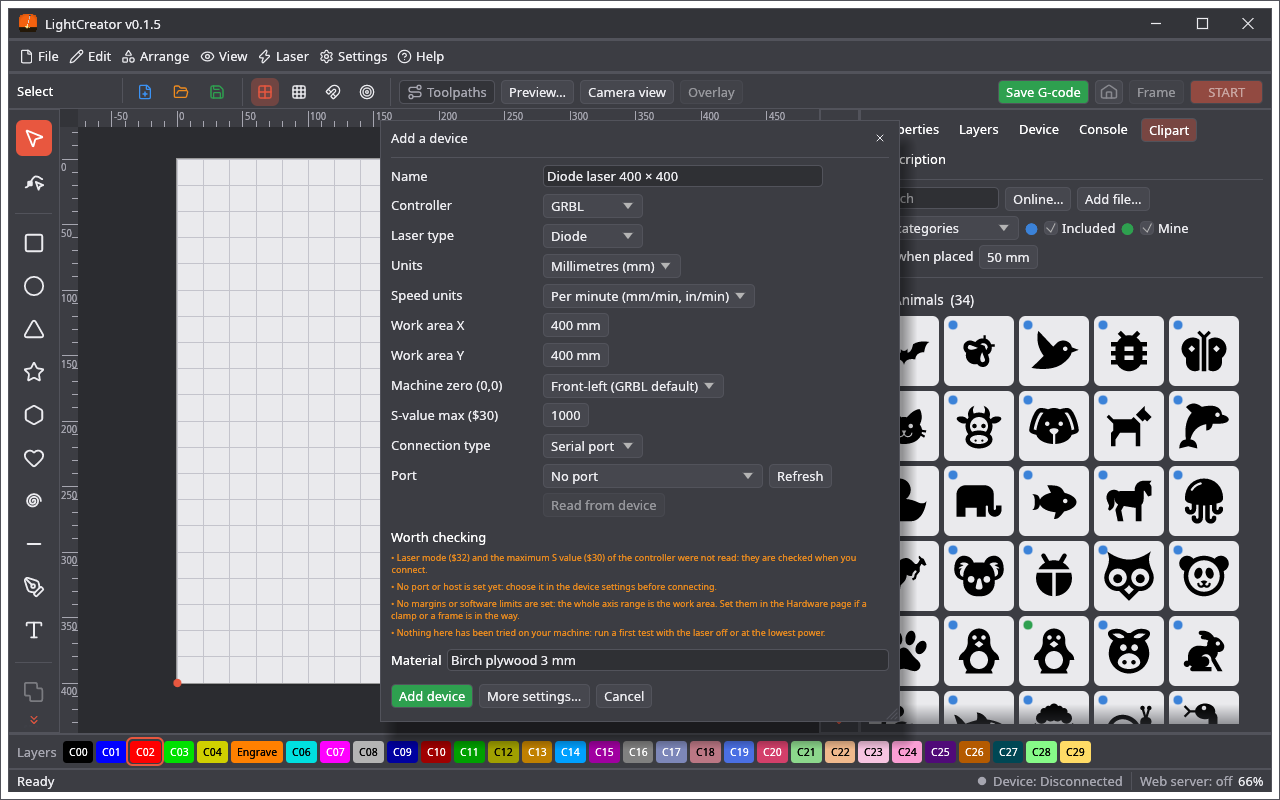
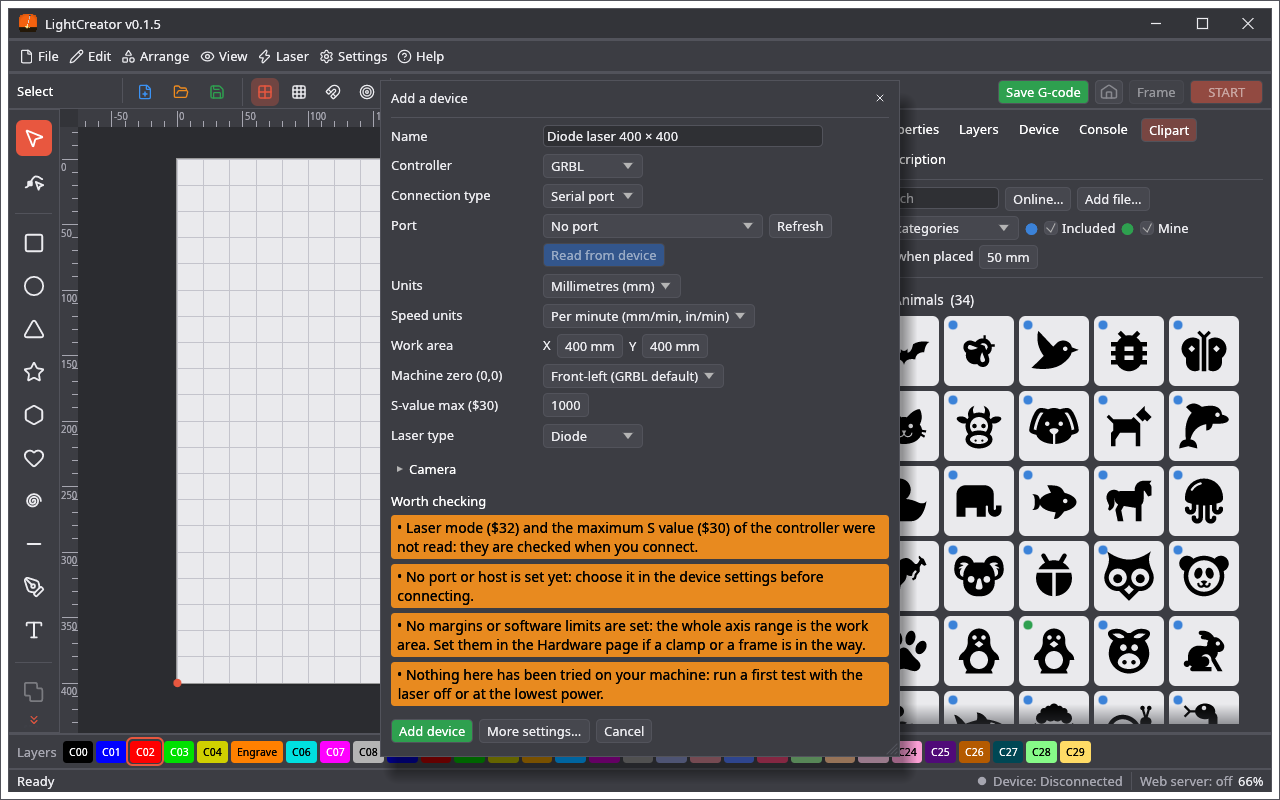
First-run Add a device window: new field order, blue read button, camera, readable warnings, Cancel quits
The connection (type, port, Read from device) now comes right after name and controller, then units, speed units, work area on one line (X, Y), machine zero, S max and laser type. The window has an optional Camera section. The material field is gone: the device gets the default material. The warnings are black on orange and larger. Cancel on the first run closes the program instead of opening the device window.

diff --git a/crates/lightcreator/src/add_device_ui.rs b/crates/lightcreator/src/add_device_ui.rs
@@ -1,4 +1,4 @@
-//! Adding a device: one window with the basic settings (and a first material at the bottom). It opens by itself when
+//! Adding a device: one window with the basic settings (and an optional camera). It opens by itself when
 //! there is no device yet. Nothing is predefined.
 use crate::app::App;
 use crate::device_ui::CfgEdit;
@@ -12,6 +12,51 @@ fn blank_device() -> Device {
     d.name = String::new();
     d.speed_unit = lc_core::SpeedUnit::PerMinute;
     d
+}
+
+/// The optional camera of a new device: nothing until "Add a camera"; then its name, where the picture comes from and
+/// the switch-off. Rotation, picture and lens settings are in the device window.
+fn camera_section(ui: &mut egui::Ui, d: &mut Device) {
+    egui::CollapsingHeader::new(RichText::new(tr("Camera")).strong()).id_salt("add_cam").default_open(!d.cameras.is_empty()).show(ui, |ui| {
+        let mut remove = false;
+        if let Some(c) = d.cameras.first_mut() {
+            ui.horizontal(|ui| {
+                ui.add(egui::TextEdit::singleline(&mut c.name).hint_text(tr("Camera name")).desired_width(180.0));
+                if crate::window_ui::delete_icon(ui, &tr("Delete this camera")).clicked() {
+                    remove = true;
+                }
+            });
+            ui.horizontal(|ui| {
+                let local = matches!(c.kind, lc_core::CameraKind::Local(_));
+                let mut want_local = local;
+                ui.radio_value(&mut want_local, false, tr("Address"));
+                ui.radio_value(&mut want_local, true, tr("Camera of this computer"));
+                if want_local != local {
+                    c.kind = if want_local { lc_core::CameraKind::Local(0) } else { lc_core::CameraKind::Url(String::new()) };
+                }
+            });
+            match &mut c.kind {
+                lc_core::CameraKind::Url(u) => {
+                    ui.add(egui::TextEdit::singleline(u).hint_text("http://raspberrypi.local:8080/stream.mjpg").desired_width(300.0));
+                    if !lc_core::camimg::valid_url(u) && !u.trim().is_empty() {
+                        ui.label(RichText::new(tr("Not an http or https address.")).color(Color32::from_rgb(0xc0, 0x30, 0x30)));
+                    }
+                }
+                lc_core::CameraKind::Local(i) => {
+                    ui.horizontal(|ui| {
+                        ui.label(tr("Camera number"));
+                        ui.add(egui::DragValue::new(i).range(0..=15));
+                    });
+                }
+            }
+        } else if ui.button(tr("Add a camera")).clicked() {
+            crate::device_ui::add_camera(d);
+        }
+        if remove {
+            d.cameras.clear();
+            d.active_camera = 0;
+        }
+    });
 }
 
 impl App {
@@ -37,18 +82,11 @@ impl App {
         w
     }
 
-    /// The device is made: it gets the starter materials of its laser type and the material typed at the bottom, and
+    /// The device is made: it gets the starter materials of its laser type (the default material is selected), and
     /// joins the list of devices.
     pub fn finish_add_device(&mut self, mut dev: Device) {
         dev.name = dev.name.trim().to_string();
         dev.add_starter_materials();
-        let typed = self.add_dev_material.trim().to_string();
-        if !typed.is_empty() {
-            let names: Vec<String> = dev.materials.iter().map(|m| m.name.clone()).collect();
-            dev.materials.push(lc_core::materials::Material::new(&lc_core::materials::free_name(&names, &typed)));
-            dev.active_material = dev.materials.len() - 1;
-        }
-        self.add_dev_material.clear();
         self.profiles.push(dev);
         self.start_sel = self.profiles.len() - 1;
         self.add_dev = None;
@@ -74,9 +112,9 @@ impl App {
         let was_read = self.add_dev_read;
         let mut open = true;
         let mut close = false;
-        crate::window_ui::popup(ctx, "first_setup", &tr("Add a device"), [520.0, 560.0], &mut open, |ui| {
+        crate::window_ui::popup(ctx, "first_setup", &tr("Add a device"), [520.0, 640.0], &mut open, |ui| {
             let d = &mut cfg.draft;
-            egui::ScrollArea::vertical().max_height((ui.ctx().content_rect().height() - 190.0).clamp(200.0, 520.0)).auto_shrink([false, true]).show(ui, |ui| {
+            egui::ScrollArea::vertical().max_height((ui.ctx().content_rect().height() - 190.0).clamp(200.0, 600.0)).auto_shrink([false, true]).show(ui, |ui| {
                 egui::Grid::new("add_dev").num_columns(2).min_col_width(140.0).spacing([12.0, 6.0]).show(ui, |ui| {
                     ui.label(tr("Name"));
                     ui.add(egui::TextEdit::singleline(&mut d.name).hint_text(tr("e.g. My diode laser")));
@@ -87,44 +125,6 @@ impl App {
                             ui.selectable_value(&mut d.controller, c, c.label());
                         }
                     });
-                    ui.end_row();
-                    ui.label(tr("Laser type"));
-                    egui::ComboBox::from_id_salt("add_laser").selected_text(tr(d.heads[0].laser.label())).show_ui(ui, |ui| {
-                        for k in lc_core::LaserKind::ALL {
-                            ui.selectable_value(&mut d.heads[0].laser, k, tr(k.label()));
-                        }
-                    });
-                    ui.end_row();
-                    ui.label(tr("Units"));
-                    egui::ComboBox::from_id_salt("add_units").selected_text(tr(d.units.label())).show_ui(ui, |ui| {
-                        for u in Units::ALL {
-                            ui.selectable_value(&mut d.units, u, tr(u.label()));
-                        }
-                    });
-                    ui.end_row();
-                    ui.label(tr("Speed units"));
-                    egui::ComboBox::from_id_salt("add_speed_units").selected_text(tr(d.speed_unit.label())).show_ui(ui, |ui| {
-                        for k in lc_core::SpeedUnit::ALL {
-                            ui.selectable_value(&mut d.speed_unit, k, tr(k.label()));
-                        }
-                    });
-                    ui.end_row();
-                    let u = d.units;
-                    ui.label(tr("Work area X"));
-                    crate::units_ui::drag_len(ui, u, &mut d.area.bed_w, 1.0, Some((10.0, 5000.0)));
-                    ui.end_row();
-                    ui.label(tr("Work area Y"));
-                    crate::units_ui::drag_len(ui, u, &mut d.area.bed_h, 1.0, Some((10.0, 5000.0)));
-                    ui.end_row();
-                    ui.label(tr("Machine zero (0,0)"));
-                    egui::ComboBox::from_id_salt("add_origin").selected_text(tr(d.axes.origin.label())).show_ui(ui, |ui| {
-                        for o in lc_core::Origin::ALL {
-                            ui.selectable_value(&mut d.axes.origin, o, tr(o.label()));
-                        }
-                    });
-                    ui.end_row();
-                    ui.label(tr("S-value max ($30)"));
-                    ui.add(egui::DragValue::new(&mut d.heads[0].s_max).range(1.0..=100000.0));
                     ui.end_row();
                     ui.label(tr("Connection type"));
                     egui::ComboBox::from_id_salt("add_link").selected_text(tr(d.connection.link.label())).show_ui(ui, |ui| {
@@ -158,24 +158,65 @@ impl App {
                     }
                     ui.label("");
                     let label = if reading { tr("Reading…") } else { tr("Read from device") };
-                    if ui.add_enabled(!reading && d.has_target() && d.controller.settings_request().is_some(), egui::Button::new(label)).on_hover_text(tr("If the machine is connected now, its work area and speed can be read from the controller.")).clicked() {
+                    let blue = egui::Button::new(RichText::new(label).color(Color32::WHITE).strong()).fill(Color32::from_rgb(0x2a, 0x6f, 0xd6));
+                    if ui.add_enabled(!reading && d.has_target() && d.controller.settings_request().is_some(), blue).on_hover_text(tr("If the machine is connected now, its work area and speed can be read from the controller.")).clicked() {
                         read = true;
                     }
                     ui.end_row();
+                    ui.label(tr("Units"));
+                    egui::ComboBox::from_id_salt("add_units").selected_text(tr(d.units.label())).show_ui(ui, |ui| {
+                        for u in Units::ALL {
+                            ui.selectable_value(&mut d.units, u, tr(u.label()));
+                        }
+                    });
+                    ui.end_row();
+                    ui.label(tr("Speed units"));
+                    egui::ComboBox::from_id_salt("add_speed_units").selected_text(tr(d.speed_unit.label())).show_ui(ui, |ui| {
+                        for k in lc_core::SpeedUnit::ALL {
+                            ui.selectable_value(&mut d.speed_unit, k, tr(k.label()));
+                        }
+                    });
+                    ui.end_row();
+                    let u = d.units;
+                    ui.label(tr("Work area"));
+                    ui.horizontal(|ui| {
+                        ui.label("X");
+                        crate::units_ui::drag_len(ui, u, &mut d.area.bed_w, 1.0, Some((10.0, 5000.0)));
+                        ui.label("Y");
+                        crate::units_ui::drag_len(ui, u, &mut d.area.bed_h, 1.0, Some((10.0, 5000.0)));
+                    });
+                    ui.end_row();
+                    ui.label(tr("Machine zero (0,0)"));
+                    egui::ComboBox::from_id_salt("add_origin").selected_text(tr(d.axes.origin.label())).show_ui(ui, |ui| {
+                        for o in lc_core::Origin::ALL {
+                            ui.selectable_value(&mut d.axes.origin, o, tr(o.label()));
+                        }
+                    });
+                    ui.end_row();
+                    ui.label(tr("S-value max ($30)"));
+                    ui.add(egui::DragValue::new(&mut d.heads[0].s_max).range(1.0..=100000.0));
+                    ui.end_row();
+                    ui.label(tr("Laser type"));
+                    egui::ComboBox::from_id_salt("add_laser").selected_text(tr(d.heads[0].laser.label())).show_ui(ui, |ui| {
+                        for k in lc_core::LaserKind::ALL {
+                            ui.selectable_value(&mut d.heads[0].laser, k, tr(k.label()));
+                        }
+                    });
+                    ui.end_row();
                 });
+                ui.add_space(4.0);
+                camera_section(ui, d);
                 if was_read {
                     ui.label(RichText::new(tr("The settings were read from the controller.")).color(Color32::from_rgb(0x2e, 0xa0, 0x4f)));
                 }
                 ui.add_space(6.0);
                 ui.label(RichText::new(tr("Worth checking")).strong());
                 for w in Self::add_dev_warnings(d, was_read) {
-                    ui.label(RichText::new(format!("• {w}")).small().color(Color32::from_rgb(0xe8, 0x8a, 0x1f)));
+                    egui::Frame::new().fill(Color32::from_rgb(0xe8, 0x8a, 0x1f)).corner_radius(3).inner_margin(egui::Margin::symmetric(6, 3)).show(ui, |ui| {
+                        ui.set_width(ui.available_width());
+                        ui.label(RichText::new(format!("• {w}")).size(14.0).color(Color32::BLACK));
+                    });
                 }
-            });
-            ui.add_space(6.0);
-            ui.horizontal(|ui| {
-                ui.label(RichText::new(tr("Material")).strong());
-                ui.add(egui::TextEdit::singleline(&mut self.add_dev_material).hint_text(tr("Add a material, e.g. Birch plywood 3 mm (optional)")).desired_width(ui.available_width().max(80.0)));
             });
             ui.add_space(8.0);
             ui.horizontal(|ui| {
@@ -214,9 +255,9 @@ impl App {
             self.add_dev = None;
             self.add_dev_read = false;
             if self.profiles.is_empty() {
-                // Without any profile the program cannot start: the plain device window comes back.
-                self.add_dev_skipped = true;
-                self.cfg = Some(cfg);
+                // Without any profile the program cannot start: cancelling the first setup quits.
+                self.cfg = None;
+                ctx.send_viewport_cmd(egui::ViewportCommand::Close);
             }
             return;
         }
@@ -252,7 +293,7 @@ mod tests {
     }
 
     #[test]
-    fn leaving_the_setup_brings_the_plain_device_window_and_does_not_ask_again() {
+    fn the_device_window_stays_out_of_the_way_while_the_setup_is_open() {
         let ctx = egui::Context::default();
         let mut a = App::build(&ctx, None, false);
         a.profiles.clear();
@@ -283,22 +324,29 @@ mod tests {
     }
 
     #[test]
-    fn a_new_device_gets_starter_materials_and_the_material_typed_at_the_bottom() {
+    fn a_new_device_gets_the_starter_materials_with_the_default_one_selected() {
         let ctx = egui::Context::default();
         let mut a = App::build(&ctx, None, false);
         a.profiles.clear();
         let mut d = Device::default();
         d.name = "  My laser ".into();
-        a.add_dev_material = "Birch plywood 3 mm".into();
-        a.finish_add_device(d.clone());
+        a.finish_add_device(d);
         let p = &a.profiles[0];
         assert_eq!(p.name, "My laser");
-        assert_eq!(p.material().name, "Birch plywood 3 mm");
-        assert!(p.materials.len() >= 5 && p.materials[0].name == lc_core::materials::DEFAULT_MATERIAL, "starters stay available");
-        assert!(a.add_dev_material.is_empty());
-        // Without a typed material the empty default stays selected.
-        a.finish_add_device(d);
-        assert_eq!(a.profiles[1].material().name, lc_core::materials::DEFAULT_MATERIAL);
-        assert_eq!(a.start_sel, 1);
+        assert_eq!(p.material().name, lc_core::materials::DEFAULT_MATERIAL);
+        assert!(p.materials.len() >= 5, "starters stay available");
+        assert_eq!(a.start_sel, 0);
+    }
+
+    #[test]
+    fn the_camera_of_a_new_device_is_added_and_removed_in_the_setup() {
+        let ctx = egui::Context::default();
+        let mut d = Device::default();
+        d.cameras.clear();
+        crate::device_ui::add_camera(&mut d);
+        assert_eq!(d.cameras.len(), 1);
+        let mut out = ctx.run_ui(egui::RawInput::default(), |ui| camera_section(ui, &mut d));
+        out.textures_delta.clear();
+        assert_eq!(d.cameras.len(), 1);
     }
 }

diff --git a/crates/lightcreator/src/app.rs b/crates/lightcreator/src/app.rs
@@ -212,8 +212,6 @@ pub struct App {
     /// The window with the templates for a new device is open.
     /// The first-run setup is open at this step.
     pub add_dev: Option<usize>,
-    /// The name of a material to add to the device being added (optional).
-    pub add_dev_material: String,
     /// The add-device window read the controller.
     pub add_dev_read: bool,
     pub add_dev_read_done: bool,
@@ -383,7 +381,6 @@ impl App {
             single_axis_homing: false,
             fw: Default::default(),
             add_dev: None,
-            add_dev_material: String::new(),
             add_dev_read: false,
             add_dev_read_done: false,
             add_dev_skipped: false,

diff --git a/crates/lightcreator/src/screenshots.rs b/crates/lightcreator/src/screenshots.rs
@@ -538,7 +538,6 @@ fn render_screenshots() {
         if let Some(c) = a.cfg.as_mut() {
             c.draft.name = "Diode laser 400 × 400".into();
         }
-        a.add_dev_material = "Birch plywood 3 mm".into();
     }
     save(&mut h, "33-add-device.png");
     {

diff --git a/docs/wiki/Urzadzenia-i-sterowniki.md b/docs/wiki/Urzadzenia-i-sterowniki.md
@@ -49,7 +49,7 @@ Strona **Laser** wymienia głowice lasera maszyny (co najmniej jedna). Głowica 
 ## Profile urządzeń
 Okno startowe wybiera **profil urządzenia** i go zapamiętuje. Profil zawiera sterownik, typ lasera (dioda lub CO2), jednostki (mm lub cale; geometria jest zawsze przechowywana w mm), jednostki prędkości (na sekundę lub na minutę, przeliczane automatycznie; G-code zawsze niesie posuw w mm/min po `G21`), domyślną prędkość każdej warstwy, pole robocze, zero maszyny, maks. wartość S, prędkość jałową, prędkość transmisji, port, krok i posuw ręcznego przesuwania, moc obrysu i wyrównanie kamery. Okno konfiguracji ma zmienny rozmiar i listę stron po lewej: **General** (nazwa, sterownik, jednostki, prędkości, przesuw), **Hardware** (pole robocze, zero maszyny), **Laser** (typ lasera, maks. S, moc obrysu), **G-code**, **Connection** (szeregowe lub TCP; tylko dla sterowników z połączeniem na żywo) i **Camera**. Profile zapisane przez wcześniejsze wersje są wczytywane bez zmian; ustawienia lasera są na liście głowic (na razie jedna). Edytor wymaga co najmniej jednego profilu.
 
-**Dodawanie urządzenia.** Nic nie jest predefiniowane (żadnych gotowych profili ani kreatora). *Dodaj urządzenie…* na ekranie startowym otwiera **jedno okno** (otwiera się samo, gdy nie ma jeszcze urządzenia) z podstawowymi ustawieniami z okna urządzenia: nazwa, sterownik, typ lasera, jednostki, pole robocze, zero maszyny, S max, połączenie i opcjonalnie odczyt prawdziwych wartości ze sterownika, z listą tego, co warto sprawdzić. Na dole można nazwać pierwszy materiał (urządzenie dostaje też kilka materiałów startowych dla swojego typu lasera). *Więcej ustawień…* otwiera całe okno urządzenia z wpisanymi danymi. Profil można **powielić**, **wyeksportować** i **zaimportować** (plik JSON z wersją formatu; import jest ściśle sprawdzany, nowszy format jest odrzucany, a port szeregowy nigdy nie jest brany z pliku).
+**Dodawanie urządzenia.** Nic nie jest predefiniowane (żadnych gotowych profili ani kreatora). *Dodaj urządzenie…* na ekranie startowym otwiera **jedno okno** (otwiera się samo, gdy nie ma jeszcze urządzenia) z podstawowymi ustawieniami z okna urządzenia: nazwa, sterownik, połączenie (typ, port i niebieski przycisk *Read from device*), jednostki, jednostki prędkości, pole robocze (X i Y w jednej linii), zero maszyny, S max, typ lasera i opcjonalnie kamera, z listą tego, co warto sprawdzić. Urządzenie dostaje materiał domyślny i kilka materiałów startowych dla swojego typu lasera. *Anuluj* przy pierwszym uruchomieniu zamyka program. *Więcej ustawień…* otwiera całe okno urządzenia z wpisanymi danymi. Profil można **powielić**, **wyeksportować** i **zaimportować** (plik JSON z wersją formatu; import jest ściśle sprawdzany, nowszy format jest odrzucany, a port szeregowy nigdy nie jest brany z pliku).
 
 **Konserwacja.** Każde urządzenie liczy łączny czas pracy i własne liczniki (np. „czyszczenie soczewki”) z opcjonalnymi limitami. Czas liczy się od chwili, gdy zadania naprawdę idą; przypomnienie pojawia się raz na sesję i na ekranie startowym, a licznik można wyzerować po potwierdzeniu. Kopie i importy startują od zera.
 

diff --git a/docs/wiki/Devices-and-Controllers.md b/docs/wiki/Devices-and-Controllers.md
@@ -49,7 +49,7 @@ The **Laser** page lists the laser heads of the machine (at least one). A head h
 ## Device profiles
 The start window selects a **device profile** and remembers it. A profile holds controller, laser type (diode or CO2), units (mm or inches; geometry is always stored in mm), speed units (per second or per minute, converted automatically; the G-code always carries the mm/min feed after `G21`), the default speed of each layer, work area, machine zero, S-value max, travel speed, baud rate, port, jog step and feed, frame power and camera alignment. The configuration window is a resizable window with a list of pages on the left: **General** (name, controller, units, speeds, jog), **Hardware** (work area, machine zero), **Laser** (laser type, S-value max, frame power), **G-code**, **Connection** (serial or TCP; only for controllers with a live link) and **Camera**. Profiles saved by earlier versions are read as they are; the laser settings live in a list of laser heads (one for now). The editor needs at least one profile.
 
-**Adding a device.** Nothing is predefined (no ready-made profiles, no wizard). *Add device…* on the start screen opens **one window** (it opens by itself when there is no device yet) with the basic settings of the device window: name, controller, laser type, units, work area, machine zero, S-value max, the connection and, optionally, a read of the real values from the controller, with a list of what is worth checking. At the bottom you can name a first material (the device also gets a few starting materials for its laser type). *More settings…* opens the whole device window with what is entered. A profile can be **duplicated**, **exported** and **imported** (a JSON file with a format version; the import is validated strictly, a newer format is refused, and the serial port is never taken from the file).
+**Adding a device.** Nothing is predefined (no ready-made profiles, no wizard). *Add device…* on the start screen opens **one window** (it opens by itself when there is no device yet) with the basic settings of the device window: name, controller, connection (type, port and a blue *Read from device* button), units, speed units, work area (X and Y on one line), machine zero, S-value max, laser type and, optionally, a camera, with a list of what is worth checking. The device gets the default material and a few starting materials for its laser type. *Cancel* on the first run quits the program. *More settings…* opens the whole device window with what is entered. A profile can be **duplicated**, **exported** and **imported** (a JSON file with a format version; the import is validated strictly, a newer format is refused, and the serial port is never taken from the file).
 
 **Maintenance.** Each device keeps the total working time and your own counters (for example "lens cleaned") with optional limits. The time is counted from the moment jobs really run; a reminder is shown once per session and on the start screen, and a counter can be reset after confirming. Copies and imports start at zero.
 

diff --git a/FEATURES.md b/FEATURES.md
@@ -161,7 +161,7 @@
   local-only option is offered for use with an SSH tunnel, with a warning that the port is otherwise open to the
   network.
 * **Adding a device and profiles:** no predefined profiles and no wizard: one window with the basic settings (opens by
-  itself when there is no device; a first material can be named at the bottom; optional read from the controller), duplicate, export and import of a profile (format
+  itself when there is no device; optional camera and read from the controller; Cancel on the first run quits), duplicate, export and import of a profile (format
   version, strict validation, no port from the file).
 * **Maintenance and notes:** working time and own counters with limits (counted from the time jobs really run) and
   per-device notes in Markdown with a preview.
